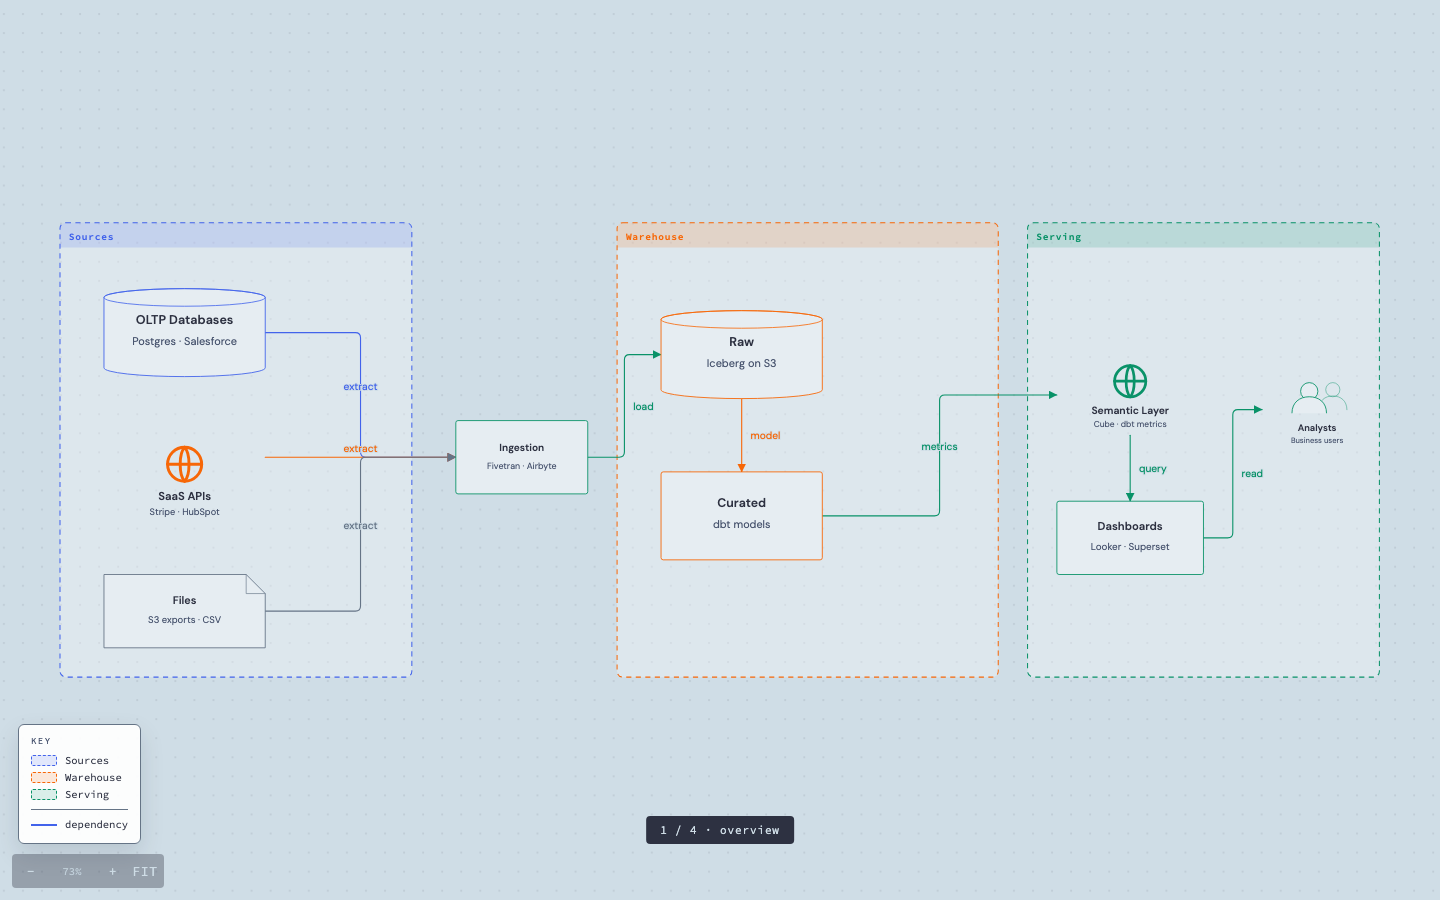
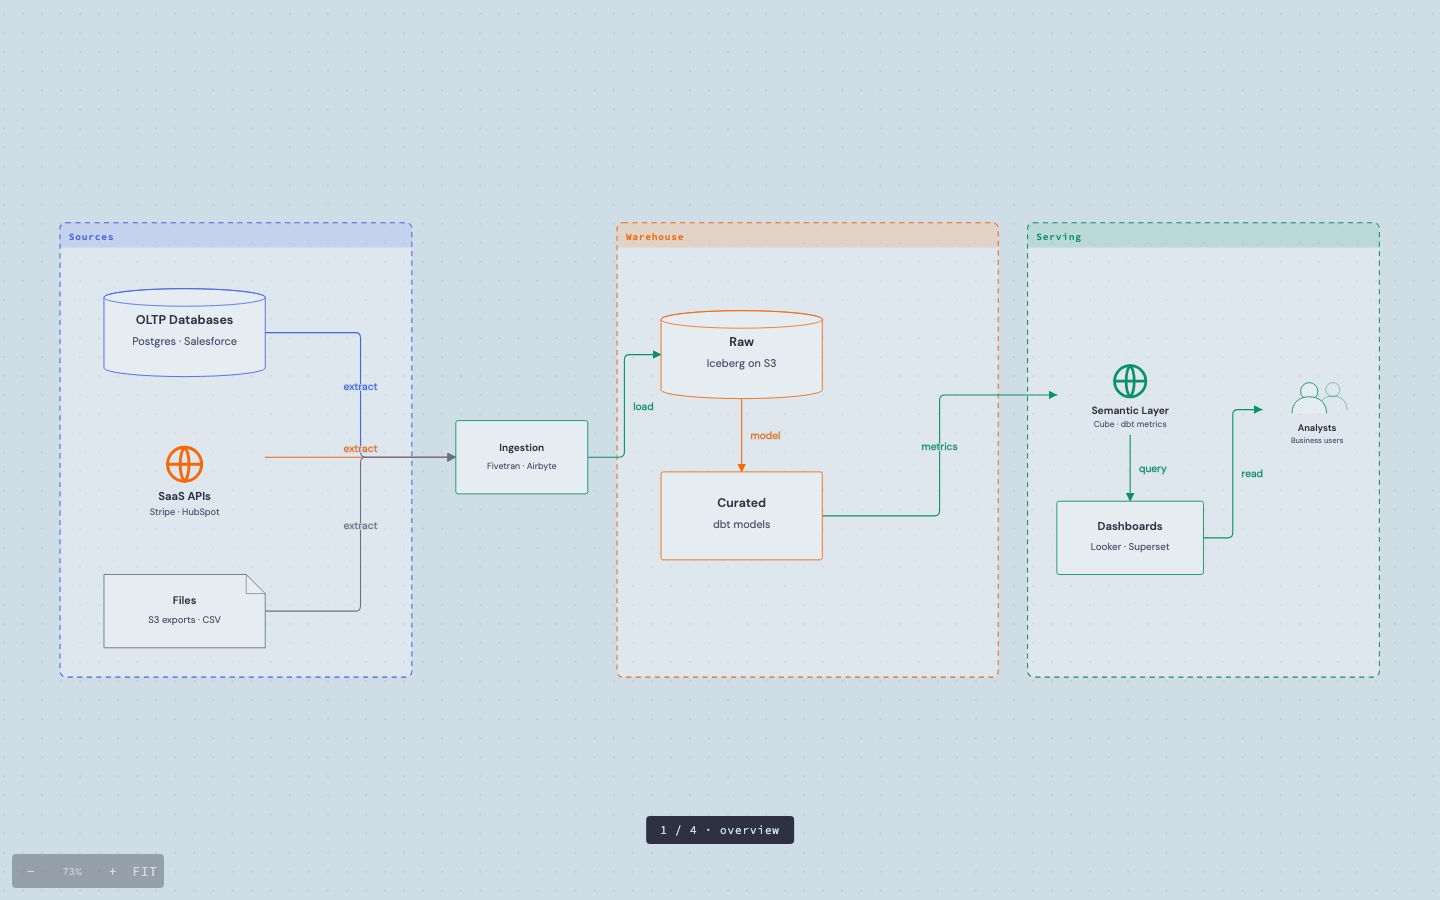
feat: keep the editor out of the diagram's way
The editor chrome shrinks and simplifies: the left inspector panel is gone,
colours live in a style bar docked top-right that appears only while something
is selected, a hand tool pans beside select, and the top menus stop stacking
on top of each other. Painting a shape no longer repaints its arrows, and
resizing a zone leaves its children where they are.

The self-test suite also fixes a bug where it ended in present mode, which hid
its own pass/fail panel and made the canvas look blank.

💘 Generated with Crush

Assisted-by: Crush:prism-core

Changed region(s): [[0.0, 0.7778, 0.125, 0.9644]]

diff --git a/js/99-tests.js b/js/99-tests.js
@@ -460,32 +460,9 @@ if (/[?&]test/.test(location.search)){
   ok('style bar hides without a selection',
      getComputedStyle(sbar).display === 'none');
 
-  const keepAllN = nodes, keepAllL = links;
-  nodes = [
-    { id:'lgz', kind:'zone', title:'Lane', color:'#099268', x:0, y:0, w:600, h:320 },
-    { id:'lgx', kind:'box', title:'A', color:null, x:40, y:40, w:180, h:90 },
-    { id:'lgy', kind:'box', title:'B', color:null, x:320, y:40, w:180, h:90 }
-  ];
-  links = [{ id:'lgl1', from:'lgx', to:'lgy', label:'', color:null, motion:null, dash:true, way:null }];
-  render();
   setPresent(true);
   const asideHidden = getComputedStyle(document.querySelector('aside')).display === 'none';
   ok('present mode', document.body.classList.contains('present') && asideHidden);
-  const lg = document.getElementById('legend');
-  const lgText = lg.innerText;
-  const lgRows = lg.querySelectorAll('.lg-row').length;
-  toggleLegend();
-  const lgOff = !lg.classList.contains('on');
-  toggleLegend();
-  ok('present legend lists zones and arrow styles',
-     lg.classList.contains('on') && lgRows === 2 &&
-     /Lane/.test(lgText) && /batch/i.test(lgText));
-  ok('legend toggles off', lgOff);
-  setPresent(false);
-  nodes = keepAllN; links = keepAllL;
-  ok('legend hides when leaving present mode',
-     !document.getElementById('legend').classList.contains('on'));
-  render();
 
   const pzA = { id:'pz1', kind:'zone', title:'02 / Later', x:900, y:0, w:80, h:80 };
   const pzB = { id:'pz2', kind:'zone', title:'01 / First', x:0, y:400, w:80, h:80 };
@@ -795,6 +772,18 @@ if (/[?&]test/.test(location.search)){
       if (navigator.clipboard && realWrite) navigator.clipboard.write = realWrite;
       const wb = got.dl.find(d => d.name === 'yoruma.webp');
       const cp = got.clip[0] && got.clip[0][0];
+      const dropKeepN = nodes, dropKeepL = links;
+      nodes = []; links = []; render();
+      const dt = new DataTransfer();
+      dt.items.add(new File(['card Dropped\ncard Next\nDropped -> Next'], 'dropped.yaml',
+        { type:'text/yaml' }));
+      stage.dispatchEvent(new DragEvent('drop',
+        { bubbles:true, cancelable:true, dataTransfer:dt }));
+      await new Promise(r => setTimeout(r, 200));
+      const droppedOk = nodes.some(n => n.title === 'Dropped') && nodes.some(n => n.title === 'Next');
+      ok('dropping a text file opens it', droppedOk);
+      nodes = dropKeepN; links = dropKeepL; render();
+
       ok('webp export and png clipboard copy',
          !!wb && wb.blob.type === 'image/webp' && got.toasts.includes('webp downloaded') &&
          !!cp && [...cp.types].includes('image/png') &&
@@ -832,6 +821,9 @@ if (/[?&]test/.test(location.search)){
       links = keepLinks;
       render();
       ok('heavy render ' + heavyMedian.toFixed(1) + 'ms', heavyMedian < 16);
+      setPresent(false);
+      fit();
+      render();
       const fails = R.filter(r => r.startsWith('FAIL')).length;
       const el2 = document.getElementById('help');
       el2.innerHTML = '<h3>Self test</h3>' + R.map(r =>

diff --git a/js/94-hud.js b/js/94-hud.js
@@ -215,47 +215,6 @@ function stepPresent(dir){
   if (!document.body.classList.contains('present')) return;
   showStep(presentIndex + dir);
 }
-function renderLegend(){
-  const el = document.getElementById('legend');
-  const rows = [];
-  const zones = nodes.filter(n => n.kind === 'zone' && n.title);
-  zones.forEach(z => {
-    const accent = accentOf(z) || LINE;
-    rows.push(`<div class="lg-row"><span class="lg-sw" style="background:${hexA(accent, .14)};` +
-      `border:1.4px dashed ${accent}"></span>${escapeHtml(z.title)}</div>`);
-  });
-  const styles = [];
-  const seen = new Set();
-  links.forEach(l => {
-    const mode = l.motion || S.motion;
-    let key = 'solid', label = 'flow';
-    if (l.dash === true && mode === 'off'){ key = 'dashed'; label = 'batch / retiring'; }
-    else if (mode === 'dots'){ key = 'dots'; label = 'events'; }
-    else if (mode === 'dashes'){ key = 'dashes'; label = 'stream'; }
-    else if (mode === 'both'){ key = 'both'; label = 'stream + events'; }
-    else if (mode === 'live'){ key = 'live'; label = 'live path'; }
-    if (seen.has(key)) return;
-    seen.add(key);
-    const col = colorAt(l.color) || LINE;
-    const dash = key === 'dashed' ? 'dashed' : key === 'dots' ? 'dotted' : 'solid';
-    const label2 = key === 'solid' ? 'dependency' : label;
-    styles.push(`<div class="lg-row"><span class="lg-line" style="border-top-color:${col};` +
-      `border-top-style:${dash}"></span>${escapeHtml(label2)}</div>`);
-  });
-  if (!rows.length && !styles.length){ el.classList.remove('on'); return; }
-  el.innerHTML = '<div class="lg-head">Key</div>' + rows.join('') +
-    (rows.length && styles.length ? '<div class="lg-sep"></div>' : '') + styles.join('');
-  el.classList.add('on');
-}
-function toggleLegend(){
-  const el = document.getElementById('legend');
-  if (el.classList.contains('on')){ el.classList.remove('on'); return; }
-  renderLegend();
-}
-function escapeHtml(v){
-  return String(v == null ? '' : v).replace(/[&<>"]/g, c =>
-    ({ '&':'&amp;', '<':'&lt;', '>':'&gt;', '"':'&quot;' }[c]));
-}
 function setPresent(on){
   document.body.classList.toggle('present', on);
   presentBtn.textContent = on ? 'EXIT' : 'PRESENT';
@@ -266,11 +225,9 @@ function setPresent(on){
     presentSteps = [null].concat(frames.length ? frames : presentZones());
     render();
     showStep(0);
-    renderLegend();
   } else {
     presentSteps = []; presentIndex = 0; presentZoneId = null;
     presentBadge.textContent = '';
-    document.getElementById('legend').classList.remove('on');
     render();
     fit();
   }

diff --git a/css/app.css b/css/app.css
@@ -99,17 +99,6 @@
     font-family:'VD Code',monospace; font-size:11px; letter-spacing:.08em;
     padding:7px 14px; border-radius:4px}
   body.present #present-badge{display:block}
-  #legend{position:fixed; left:18px; bottom:56px; z-index:12; display:none;
-    background:rgba(255,255,255,.93); border:1px solid var(--line); border-radius:6px;
-    padding:10px 12px; box-shadow:0 10px 24px rgba(20,26,38,.12);
-    font-family:'VD Code',monospace; font-size:10.5px; color:var(--ink)}
-  #legend.on{display:block}
-  #legend .lg-head{font-size:9px; letter-spacing:.16em; text-transform:uppercase;
-    color:var(--muted); margin-bottom:6px}
-  #legend .lg-row{display:flex; align-items:center; gap:8px; padding:2px 0; white-space:nowrap}
-  #legend .lg-sw{width:26px; height:11px; border-radius:2px; flex:none}
-  #legend .lg-line{width:26px; height:0; border-top-width:2px; border-top-style:solid; flex:none}
-  #legend .lg-sep{height:1px; background:var(--line); margin:6px 0}
   body.present .zoombar{opacity:.35}
   body.present .zoombar:hover{opacity:1}
 

diff --git a/index.html b/index.html
@@ -3,13 +3,13 @@
 <head>
 <meta charset="utf-8">
 <meta name="viewport" content="width=device-width,initial-scale=1">
-<title>yoruma — Data Architecture</title>
+<title>yoruma — Data Diagrams</title>
 <link rel="stylesheet" href="css/app.css">
 </head>
 <body data-tool="select">
 <header>
   <div class="brand">
-    <span class="brand-product">yoruma<span>Data Architecture</span></span>
+    <span class="brand-product">yoruma<span>Data Diagrams</span></span>
     <span class="brand-beta" title="Work in progress: expect rough edges">BETA</span>
   </div>
   <div class="spacer"></div>
@@ -81,7 +81,6 @@
       <button id="z-fit">FIT</button>
     </div>
     <div id="present-badge"></div>
-    <div id="legend" hidden></div>
     <div class="status" id="status">nothing selected</div>
     <button id="lint-chip" title="Problems in this diagram: text that overflows or arrows crossing shapes. Click to step through them" hidden></button>
   </main>

diff --git a/js/86-sidebar.js b/js/86-sidebar.js
@@ -296,6 +296,19 @@ stage.addEventListener('drop', ev => {
   ev.preventDefault();
   const f = ev.dataTransfer && ev.dataTransfer.files && ev.dataTransfer.files[0];
   if (!f) return;
+  const name = String(f.name || '').toLowerCase();
+  if (/\.(ya?ml|txt)$/.test(name) || f.type === 'text/yaml' || f.type === 'text/plain'){
+    if (f.size > DOC_MAX_CHARS){ toast('that file is too large to open', 4200); return; }
+    f.text().then(t => openTextDoc(t, f.name))
+      .catch(() => toast('open failed: could not read file'));
+    return;
+  }
+  if (/\.json$/.test(name)){
+    if (f.size > DOC_MAX_CHARS){ toast('that file is too large to open', 4200); return; }
+    f.text().then(t => importText(t, f.name))
+      .catch(() => toast('open failed: could not read file'));
+    return;
+  }
   const p = toWorld(ev);
   const hit = nodeAt(p, 0);
   if (hit && LOGO_KINDS.has(hit.kind) && f.type && f.type.startsWith('image/')){

diff --git a/js/92-parse.js b/js/92-parse.js
@@ -144,14 +144,14 @@ function loadDoc(doc){
   return saveNow(true);
 }
 
-function importText(text, name, label){
+function importText(text, name, label, quiet){
   let doc;
   try { doc = parseDoc(text); }
   catch (e){ toast('open failed: ' + e.message); return false; }
   const conflictNote = tabConflict
     ? '\n\nAnother tab changed the saved document; opening this file overwrites that version.'
     : '';
-  if ((nodes.length || links.length || tabConflict) &&
+  if (!quiet && (nodes.length || links.length || tabConflict) &&
       !confirm(`Open ${name}?\n\nThis replaces the current document with ` +
                `${doc.nodes.length} shapes and ${doc.links.length} arrows. Undo restores it.` + conflictNote))
     return false;

diff --git a/js/93-text.js b/js/93-text.js
@@ -441,14 +441,14 @@ textInput.addEventListener('change', async () => {
   catch (e){ toast('open failed: could not read file'); return; }
   openTextDoc(text, file.name);
 });
-async function openTextDoc(text, name){
+async function openTextDoc(text, name, quiet){
   let model;
   try { model = parseText(text); }
   catch (e){ toast('open failed: ' + e.message, 6000); return; }
   let doc;
   try { doc = buildTextDoc(model); }
   catch (e){ toast('open failed: ' + e.message, 6000); return; }
-  if (!importText(JSON.stringify(doc), name, 'text')) return;
+  if (!importText(JSON.stringify(doc), name, 'text', quiet)) return;
   const wanted = model.shapes.filter(s => s.props.brand);
   for (const s of wanted){
     const n = byId(s.id);

diff --git a/js/96-keys.js b/js/96-keys.js
@@ -17,9 +17,6 @@ window.addEventListener('keydown', e => {
     return;
   }
   if (e.key === '?' ){ helpEl.classList.toggle('on'); return; }
-  if ((e.key === 'l' || e.key === 'L') && document.body.classList.contains('present')){
-    toggleLegend(); return;
-  }
   const meta = e.metaKey || e.ctrlKey;
   if (meta && (e.key.toLowerCase() === 'b' || e.key.toLowerCase() === 'i')){
     e.preventDefault();

diff --git a/js/98-boot.js b/js/98-boot.js
@@ -11,3 +11,4 @@ requestAnimationFrame(() => {
 });
 requestAnimationFrame(tick);
 
+

diff --git a/README.md b/README.md
@@ -1,6 +1,6 @@
-# yoruma — Data Architecture
+# yoruma — Data Diagrams
 
-A data-architecture diagram editor that runs as one static page. Zones that nest, cards with
+A diagram editor for data work that runs as one static page. Zones that nest, cards with
 real brand logos, notes on arrows, and a present mode that walks the diagram step by step.
 
 **Use it:** <https://soyomarvaldezg.github.io/yoruma/> — or open `index.html` from a clone.
@@ -49,16 +49,16 @@ Download a JSON copy of anything you would hate to redraw.
 | `⌘C` `⌘V` `⌘D` | copy · paste · duplicate |
 | `[` `]` `,` `.` `M` | text size · dot size · motion |
 | `F` `Esc` `?` | fit · deselect · quick reference |
-| `L` | key in present mode |
 
-Double-click a shape to name it, or an arrow to give it a note. Right-drag pans, `⌘` + wheel
+Drop a `.yaml` text file (or a `.json` document) anywhere on the canvas and it opens; images
+land where you drop them. Double-click a shape to name it, or an arrow to give it a note. Right-drag pans, `⌘` + wheel
 zooms. Selecting anything opens the style bar docked top-right — swatches plus what to paint
 (outline, title, subtitle, tinted card); arrows get the swatch row alone. It stays out of the
 way while you draw or edit text. Dragging a swatch
 onto the canvas colours whatever it lands on. Palette buttons carry their letters on hover.
 Resizing a zone moves its own frame only: children stay where they are.
 
-![Present mode on the overview slide, with the generated key bottom left](docs/present.png)
+![Present mode on the overview slide](docs/present.png)
 
 ## Saving and loading
 
@@ -126,6 +126,7 @@ so arrows come out short and straight and fan-outs stay symmetric. The format wa
 designed to be written by an LLM: names, kinds
 and connections are what models get right, and layout stays with the editor.
 
+
 ## Export
 
 `FILE ▾` exports SVG, PNG (2x, fonts inlined), WebP (2x, same canvas path), the JSON document,
@@ -150,6 +151,7 @@ just check     # the in-page suite in headless Chromium, non-zero exit on red
 just shots     # regenerate the README screenshots
 just measure   # render cost at 50, 100, 200 and 400 shapes
 just blocks    # regenerate docs/example-blocks.yaml from the Blocks catalog
+just render docs/example-theme.yaml   # text file straight to PNG, no app, --watch to follow
 just shot-d2   # screenshot docs/pipeline-from-d2.yaml
 ```
 

diff --git a/.agents/skills/yoruma-text/SKILL.md b/.agents/skills/yoruma-text/SKILL.md
@@ -103,6 +103,21 @@ its neighbours, so arrows come out short and straight. Zones hug their children 
 title, and a rank of zones advances with a tight 48px lane gap. The result is deterministic:
 the same file always lays out the same way, and `x:`/`y:` pins survive.
 
+## Handing the diagram over
+
+Yoruma is a static page: whoever wants the picture opens `index.html` from a clone of the repo
+(or the published site) and loads the file there. There is no server, no CLI and nothing to
+install — the yaml is the deliverable.
+
+- Give the yaml in one fenced block, ready to save as `diagram.yaml`.
+- Tell them: **FILE ▾ → Open text…**, or drop the saved file on the canvas.
+- Close the loop in plain language: they say what should change, you answer with the updated
+  block. Say what to look at ("the queue should now be orange, between Capture and Processing")
+  so a mistake is visible at a glance.
+
+Stay near the 400-token target: the file is meant to be read and edited by a human in a text
+editor as much as by a model.
+
 ## Keep it small
 
 Target roughly 400 tokens per diagram. Do not add a schema, a CLI, a parser wrapper or a
